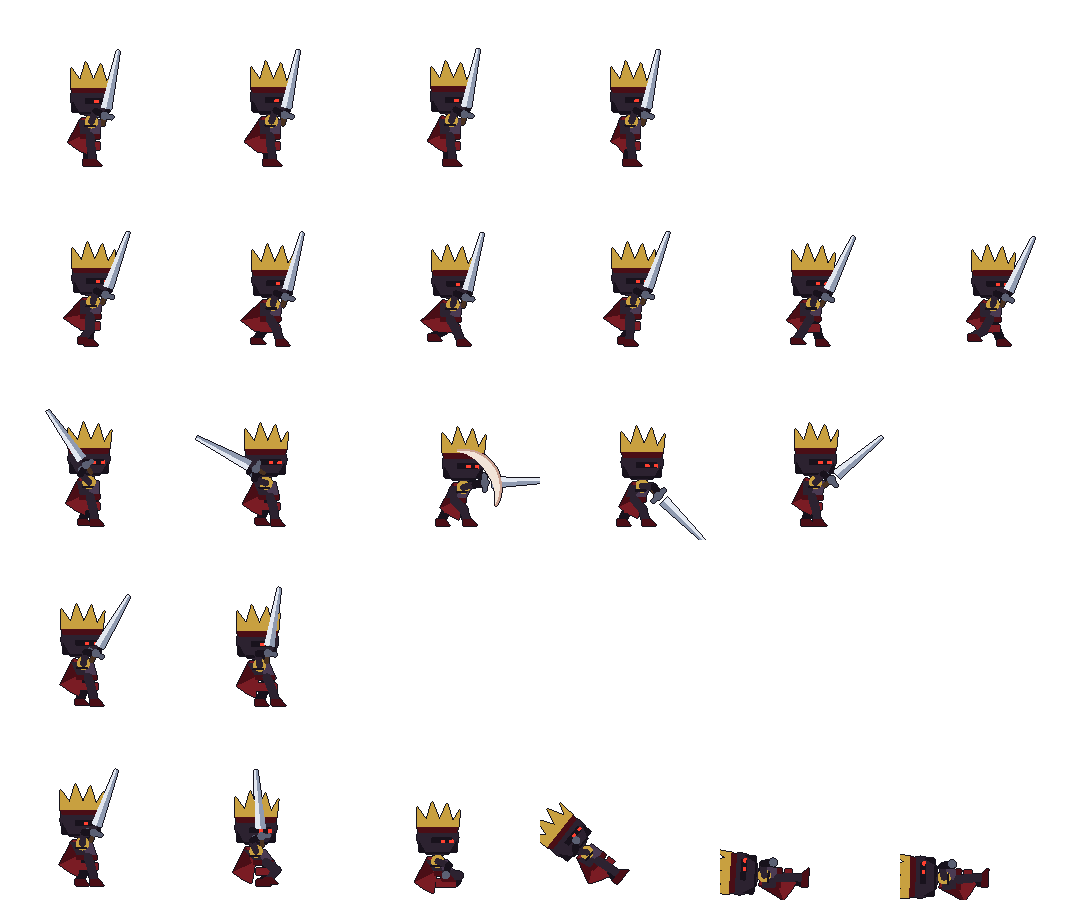
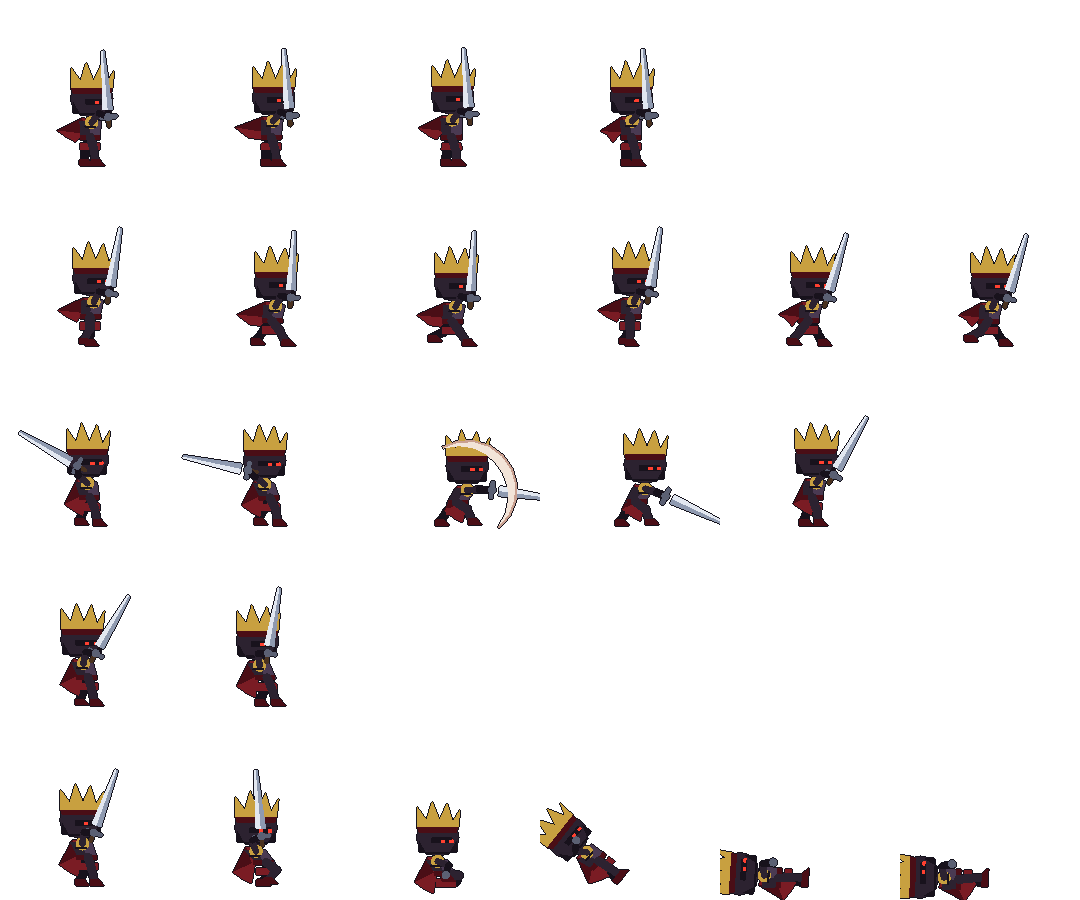
Give every foe its own animation set
Same skeleton and pixel style as the hero, but unique motion per character:
footman fidgets nervously, royal knight salutes and marches, elite knight
stalks coiled with a rippling cape, the boss breathes deep and stomps, and
the witch glides with a pulsing orb. Idle, walk and attack rows re-authored
per foe in tools/art/foes.py; sheets rebuilt for all three art tiers.

diff --git a/tools/art/foes.py b/tools/art/foes.py
@@ -210,8 +210,14 @@ def draw_witch(P, c, ps, tier):
 
 
 # ------------------------------------------------------------------ animations
+# Every foe shares the hero's skeleton and pixel style, but each one moves in its
+# own way: idle, walk and attack poses are authored per character.
+def _t(i, n):
+    return i / n * math.tau
+
+
 def walk(i):
-    t = i / 6 * math.tau
+    t = _t(i, 6)
     legs = []
     for ph in (t, t + math.pi):
         th = 0.6 * math.sin(ph)
@@ -224,13 +230,127 @@ def idle(i):
     return pose(breath=0.9 * (0.5 - 0.5 * math.cos(t)), hand=(25, 10), sword=78, cape=(0.12, t, 0), sway=math.sin(t) * 1.5, hover=1.5 + math.sin(t) * 1.2)
 
 
-ATTACK = [
-    pose(lean=-0.12, hand=(100, 12), sword=125, legs=(0.25, 0.1, -0.3, -0.3), shield_up=-2),
-    pose(lean=-0.28, hand=(125, 12), sword=152, legs=(0.3, 0.1, -0.4, -0.4), crouch=1.5, shield_up=-3),
-    pose(lean=0.4, hand=(12, 15), sword=2, legs=(0.8, 0.3, -0.6, -0.5), smear=(100, -30, 26), shift=(4, 0)),
-    pose(lean=0.34, hand=(-30, 13), sword=-45, legs=(0.7, 0.3, -0.55, -0.45), shift=(4, 0)),
-    pose(lean=0.1, hand=(10, 11), sword=40, legs=(0.3, 0.1, -0.25, -0.25), shift=(2, 0)),
+# ---- footman: a nervous conscript. Quick shallow breath, shield fidgeting, sword tip wagging.
+def idle_footman(i):
+    t = _t(i, 4)
+    return pose(breath=0.8 * (0.5 - 0.5 * math.cos(t)), hand=(25 + 6 * math.sin(t), 10), sword=76 + 12 * math.sin(t),
+                tilt=0.14 * math.sin(t), shield_up=1 + 1.6 * math.sin(t + 1), cape=None,
+                legs=(0.16, 0.08, -0.14, -0.12))
+
+
+def walk_footman(i):
+    t = _t(i, 6)
+    legs = []
+    for ph in (t, t + math.pi):
+        th = 0.5 * math.sin(ph)
+        legs += [th, th - (0.12 + 0.5 * max(0, math.sin(ph + 1.9)))]
+    return pose(lean=0.15, legs=tuple(legs), hand=(30, 10), sword=64 + 5 * math.sin(t),
+                hand_back=(-60, 9), shield_up=1.2 + math.sin(t * 2), cape=None)
+
+
+ATTACK_FOOTMAN = [
+    pose(lean=-0.1, hand=(95, 12), sword=118, legs=(0.25, 0.1, -0.3, -0.3), shield_up=0),
+    pose(lean=-0.22, hand=(118, 12), sword=138, legs=(0.3, 0.1, -0.38, -0.4), crouch=1.2, shield_up=-1),
+    pose(lean=0.32, hand=(18, 15), sword=10, legs=(0.7, 0.3, -0.55, -0.45), smear=(95, -40, 24), shift=(3, 0)),
+    pose(lean=0.28, hand=(-26, 13), sword=-30, legs=(0.6, 0.3, -0.5, -0.42), shift=(3, 0)),
+    pose(lean=0.08, hand=(14, 11), sword=44, legs=(0.3, 0.1, -0.25, -0.25), shift=(1, 0)),
 ]
+
+# ---- royal knight: a proud sentinel. Slow salute, chin up, braced kite shield, marching steps.
+def idle_royal(i):
+    t = _t(i, 4)
+    lift = 0.5 - 0.5 * math.cos(t)                     # blade rises to a salute and returns
+    return pose(breath=0.7 * (0.5 - 0.5 * math.cos(t)), lean=-0.05, tilt=-0.06,
+                hand=(25 - 48 * lift, 10), sword=78 - 42 * lift, hand_back=(-70, 9), shield_up=-1,
+                cape=None, legs=(0.12, 0.06, -0.16, -0.12))
+
+
+def walk_royal(i):
+    t = _t(i, 6)
+    legs = []
+    for ph in (t, t + math.pi):
+        th = 0.55 * math.sin(ph)
+        legs += [th, th - (0.16 + 0.7 * max(0, math.sin(ph + 1.7)))]     # snappy high-knee march
+    return pose(lean=0.02, legs=tuple(legs), hand=(62, 10), sword=88, hand_back=(-66, 9),
+                shield_up=math.sin(t * 2) * 1.2, cape=None)
+
+
+ATTACK_ROYAL = [
+    pose(lean=-0.14, hand=(105, 12), sword=130, legs=(0.3, 0.12, -0.35, -0.35), shield_up=-2),
+    pose(lean=-0.3, hand=(128, 13), sword=150, legs=(0.35, 0.12, -0.45, -0.45), shield_up=-3),
+    pose(lean=0.34, hand=(40, 15), sword=-4, legs=(0.75, 0.3, -0.6, -0.5), smear=(60, -20, 26), shift=(5, 0)),
+    pose(lean=0.3, hand=(30, 14), sword=-8, legs=(0.65, 0.28, -0.55, -0.45), shift=(4, 0)),
+    pose(lean=0.1, hand=(45, 11), sword=55, legs=(0.3, 0.1, -0.28, -0.25), shift=(2, 0)),
+]
+
+# ---- elite knight: a stalking hunter. Coiled crouch, weight shifting side to side, rippling cape.
+def idle_elite(i):
+    t = _t(i, 4)
+    return pose(crouch=2.2, breath=0.6 * (0.5 - 0.5 * math.cos(t)), lean=0.14,
+                shift=(2.2 * math.sin(t), 0), tilt=0.1 * math.sin(t + 0.6),
+                hand=(38, 11), sword=52, hand_back=(-76, 8), shield_up=0.5,
+                cape=(0.34, t, 0.5), legs=(0.3, 0.12, -0.34, -0.14))
+
+
+def walk_elite(i):
+    t = _t(i, 6)
+    legs = []
+    for ph in (t, t + math.pi):
+        th = 0.7 * math.sin(ph)
+        legs += [th, th - (0.1 + 0.6 * max(0, math.sin(ph + 1.9)))]
+    return pose(lean=0.2, crouch=1.5, legs=tuple(legs), hand=(40, 11), sword=48,
+                hand_back=(-78, 8), cape=(0.42, t, 0.8), shift=(1.5 * math.sin(t), 0))
+
+
+ATTACK_ELITE = [
+    pose(lean=-0.16, crouch=2.5, hand=(120, 11), sword=150, legs=(0.5, 0.15, -0.5, -0.5), shield_up=-2),
+    pose(lean=-0.3, crouch=3.5, hand=(132, 12), sword=165, legs=(0.55, 0.15, -0.55, -0.55), shield_up=-3),
+    pose(lean=0.42, crouch=0.5, hand=(-20, 16), sword=-55, legs=(0.9, 0.35, -0.7, -0.55), smear=(115, -60, 28), shift=(5, 0)),
+    pose(lean=0.36, hand=(-38, 14), sword=-70, legs=(0.8, 0.3, -0.6, -0.5), shift=(4, 0)),
+    pose(lean=0.12, crouch=1.5, hand=(20, 11), sword=30, legs=(0.35, 0.12, -0.3, -0.28), shift=(2, 0)),
+]
+
+# ---- the boss: a heavy tyrant. Deep slow breath, billowing cape, wide planted stance, stomping march.
+def idle_boss(i):
+    t = _t(i, 4)
+    return pose(breath=1.7 * (0.5 - 0.5 * math.cos(t)), lean=0.03 * math.sin(t + 0.5),
+                shift=(1.6 * math.sin(t * 0.5), 0), tilt=0.08 * math.sin(t),
+                hand=(18, 12), sword=95, hand_back=(-64, 10),
+                cape=(0.5, t, 2.5 + 1.2 * math.sin(t)), legs=(0.3, 0.1, -0.35, -0.12))
+
+
+def walk_boss(i):
+    t = _t(i, 6)
+    legs = []
+    for ph in (t, t + math.pi):
+        th = 0.75 * math.sin(ph)
+        legs += [th, th - (0.05 + 0.5 * max(0, math.sin(ph + 1.9)))]
+    return pose(lean=0.12, legs=tuple(legs), hand=(30, 12), sword=80 + 8 * math.sin(t),
+                hand_back=(-56, 10), cape=(0.55, t, 1.5), shift=(2 * math.sin(t), 0))
+
+
+ATTACK_BOSS = [
+    pose(lean=-0.2, hand=(120, 14), sword=150, legs=(0.4, 0.15, -0.45, -0.4)),
+    pose(lean=-0.34, hand=(140, 15), sword=168, legs=(0.45, 0.15, -0.5, -0.45), crouch=2),
+    pose(lean=0.5, hand=(0, 17), sword=-8, legs=(1.0, 0.4, -0.75, -0.6), crouch=3, smear=(120, -50, 34), shift=(6, 0)),
+    pose(lean=0.44, hand=(-20, 15), sword=-25, legs=(0.9, 0.35, -0.7, -0.55), crouch=2.5, shift=(5, 0)),
+    pose(lean=0.14, hand=(25, 13), sword=60, legs=(0.35, 0.12, -0.35, -0.3), shift=(2, 0)),
+]
+
+# ---- the witch: a hex weaver. She glides, her orb pulses and the staff sways on its own.
+def idle_witch(i):
+    t = _t(i, 4)
+    return pose(lean=0.06 * math.sin(t), hover=2.5 + 1.8 * math.sin(t), sway=math.sin(t) * 2,
+                hand=(25 + 8 * math.sin(t + 1), 10), staff=72 + 12 * math.sin(t * 0.5 + 1),
+                orb=1.0 + 0.35 * (0.5 - 0.5 * math.cos(t)))
+
+
+def walk_witch(i):
+    t = _t(i, 6)
+    return pose(hover=2.5 + math.sin(t) * 2, sway=math.sin(t) * 3, lean=0.1, hand=(25, 10),
+                staff=80 + 8 * math.sin(t), orb=1.1 + 0.15 * math.sin(t * 2))
+
+
 WITCH_ATTACK = [
     dict(lean=-0.1, hand=(70, 10), staff=100, orb=1.0), dict(lean=-0.2, hand=(95, 11), staff=115, orb=1.4),
     dict(lean=-0.25, hand=(110, 11), staff=125, orb=2.0), dict(lean=0.2, hand=(20, 12), staff=45, orb=1.5), dict(lean=0.05, hand=(40, 10), staff=75, orb=0.9),
@@ -270,6 +390,12 @@ def render(name, p):
     cell, origin = (BOSS_CELL, BOSS_ORIGIN) if boss else (CELL, ORIGIN)
     tier = {3: 1, 2: 2, 1: 3}[p]
     plan = [('idle', 4), ('walk', 6), ('attack', 5), ('hurt', 2), ('death', 6)]
+    humanoid = {
+        'footman': {'idle': idle_footman, 'walk': walk_footman, 'attack': lambda j: ATTACK_FOOTMAN[j]},
+        'royal': {'idle': idle_royal, 'walk': walk_royal, 'attack': lambda j: ATTACK_ROYAL[j]},
+        'elite': {'idle': idle_elite, 'walk': walk_elite, 'attack': lambda j: ATTACK_ELITE[j]},
+        'boss': {'idle': idle_boss, 'walk': walk_boss, 'attack': lambda j: ATTACK_BOSS[j]},
+    }
     rows = []
     for kind, n in plan:
         row = []
@@ -277,9 +403,9 @@ def render(name, p):
             P = Painter(cell, p, origin, pal, OUTLINE)
             if name == 'witch':
                 if kind == 'idle':
-                    ps = idle(i)
+                    ps = idle_witch(i)
                 elif kind == 'walk':
-                    ps = pose(hover=2 + math.sin(i / 6 * math.tau) * 1.5, sway=math.sin(i / 6 * math.tau) * 2.5, lean=0.08, hand=(25, 10), staff=80)
+                    ps = walk_witch(i)
                 elif kind == 'attack':
                     ps = pose(**WITCH_ATTACK[i])
                 elif kind == 'hurt':
@@ -290,7 +416,7 @@ def render(name, p):
                 draw_witch(P, cols, ps, tier)
             else:
                 s = STYLES[name]
-                ps = {'idle': idle, 'walk': walk, 'hurt': hurt_h, 'death': death_h}.get(kind, lambda j: ATTACK[j])(i)
+                ps = humanoid[name].get(kind, {'hurt': hurt_h, 'death': death_h}[kind] if kind in ('hurt', 'death') else None)(i)
                 P.scale = s['scale']
                 P.rot = ps['rot']
                 P.shift = ps['shift']
